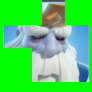
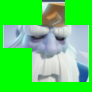
fix(cards): Royale Ghost 改用活动兵卡底图层
新增该卡时用了默认卡底（unit_slot 图层 1），卡面本身是对的，卡底颜色
偏蓝。实测 28 张含该卡位的帧只能到 0.957~0.960，离 FindUnit 的 0.95
阈值只剩 0.007 余量，实战随时会掉下去投不出兵。

改为 background_layer=2 后同一批帧为 0.994~0.998，真机跑一轮
FindUnit 在该卡位命中 0.998 并完成投放。重新导出只影响这张卡的
5 个文件，其余模板逐字节未变。

语料补一条该卡位的 FindUnit 命中用例。

Changed region(s): [[0.7174, 0.2609, 0.9783, 0.8913], [0.0217, 0.2609, 0.2174, 0.5217], [0.4565, 0.0217, 0.7174, 0.0435]]

diff --git a/scripts/refresh-cards/export_cards.py b/scripts/refresh-cards/export_cards.py
@@ -72,7 +72,7 @@ UNIT_CARDS = (
     CardSpec("60_Druid", "icon_unit_druid_bear"),
     CardSpec("61_Furnace", "icon_unit_furnace"),
     CardSpec("62_RuinWitch", "icon_unit_ruinwitch", image_layer=1),
-    CardSpec("63_RoyaleGhost", "icon_unit_royale_ghost"),
+    CardSpec("63_RoyaleGhost", "icon_unit_royale_ghost", background_layer=2),
     CardSpec("100_Broom", "icon_unit_majo", background_layer=2),
     CardSpec("101_BarbarianKicker", "icon_unit_footballbarbarian", background_layer=2),
     CardSpec("102_M.E.C.H.A", "icon_unit_mecha", background_layer=2),
